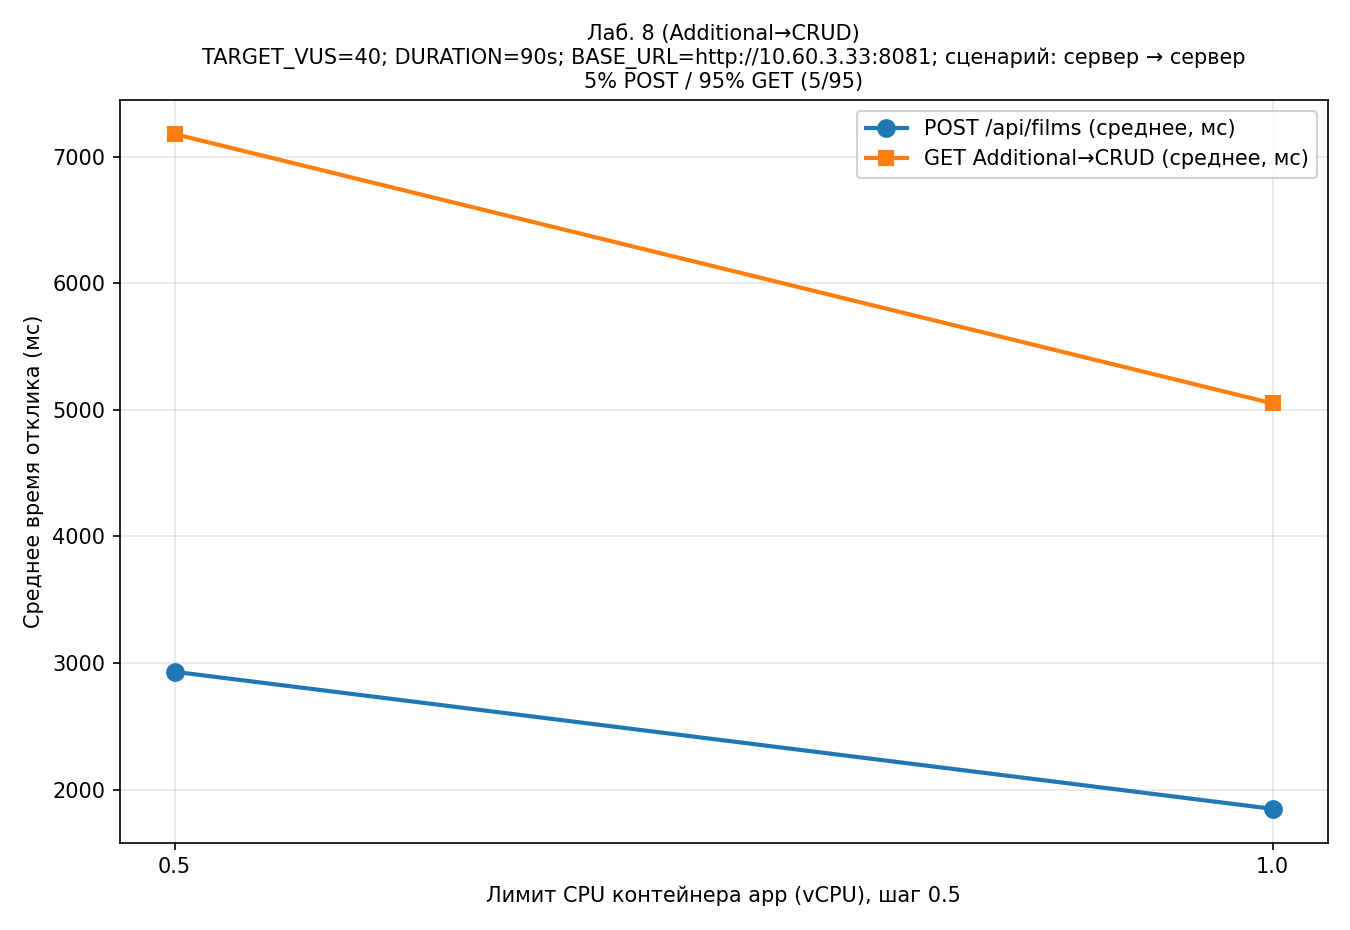
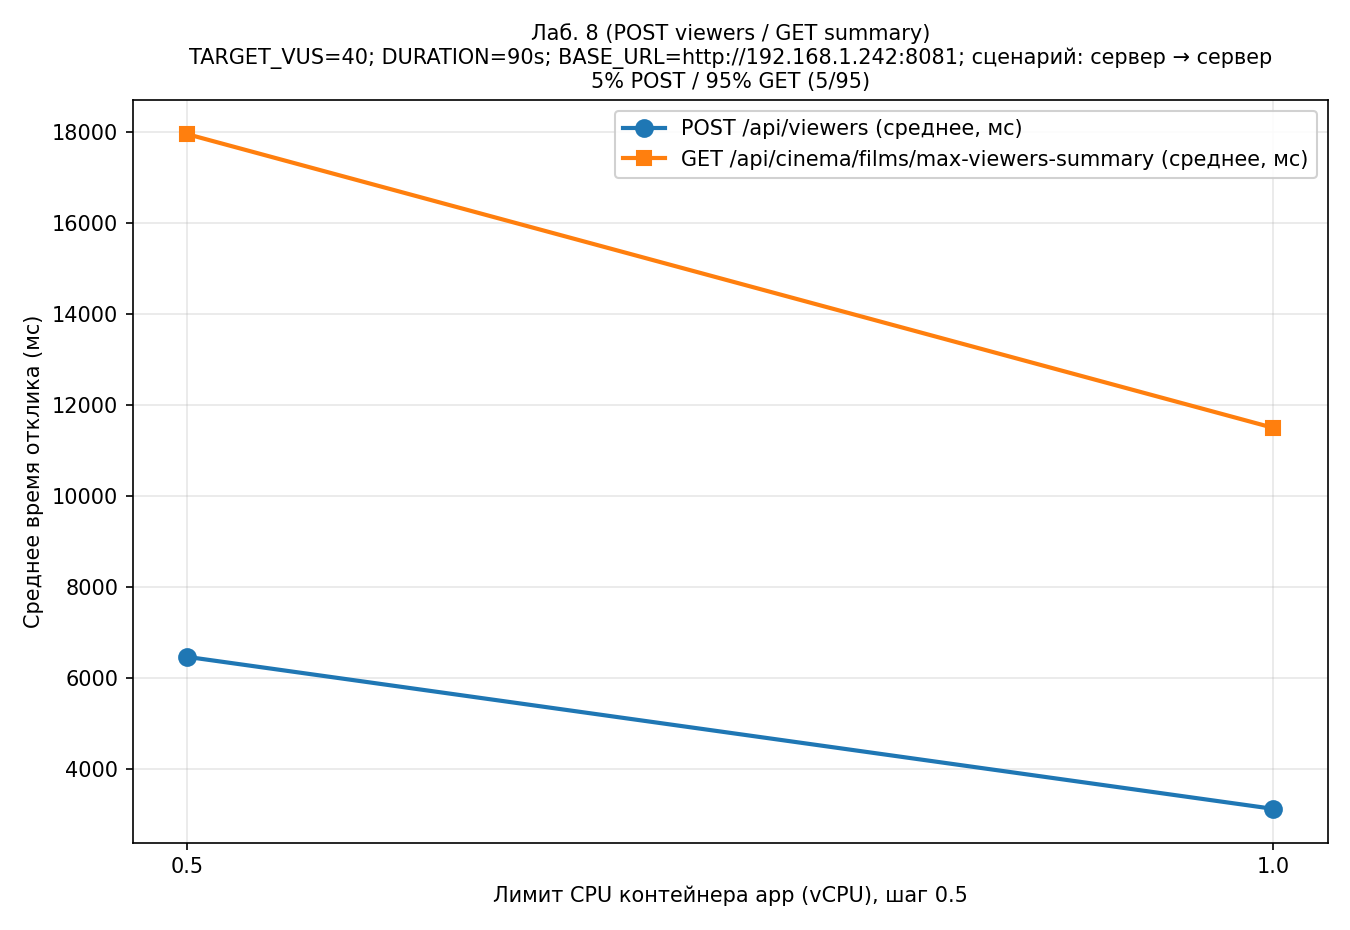
Update lab8 plotting scripts and README to include new POST legend for API viewers
- Added `--post-legend` argument to `plot_lab6_from_results.py` for customizable POST legend.
- Updated `run-lab8-ratio-sweep.sh` to include the new POST legend for consistency.
- Modified README to reflect the changes in command usage for plotting.
- Updated PNG files generated from lab8 tests.

These changes enhance the clarity of the plotted results for lab8 performance metrics.

diff --git a/k6/plot_lab6_from_results.py b/k6/plot_lab6_from_results.py
@@ -280,6 +280,7 @@ def plot_mix(
     meta: dict,
     title_tag: str = "Лаб. 6: время отклика vs CPU",
     png_prefix: str = "lab6-vs-cpu",
+    post_legend: str = "POST /api/films (среднее, мс)",
     get_legend: str = "GET analytics (среднее, мс)",
 ) -> None:
     try:
@@ -296,7 +297,7 @@ def plot_mix(
         x_cpu,
         y_post,
         "o-",
-        label="POST /api/films (среднее, мс)",
+        label=post_legend,
         color="#1f77b4",
         linewidth=2,
         markersize=8,
@@ -372,6 +373,12 @@ def main() -> None:
         help="Префикс имён PNG (lab6-vs-cpu или lab8-vs-cpu)",
     )
     p.add_argument(
+        "--post-legend",
+        default="POST /api/films (среднее, мс)",
+        metavar="TEXT",
+        help="Подпись легенды для POST-ветки (лаб. 8: POST /api/viewers)",
+    )
+    p.add_argument(
         "--get-legend",
         default="GET analytics (среднее, мс)",
         metavar="TEXT",
@@ -428,6 +435,7 @@ def main() -> None:
             meta,
             title_tag=args.title_tag,
             png_prefix=args.png_prefix,
+            post_legend=args.post_legend,
             get_legend=args.get_legend,
         )
 

diff --git a/README.md b/README.md
@@ -1583,6 +1583,7 @@ python3 k6/plot_lab6_from_results.py results -o png_k8 \
   --summary-prefix lab8-summary --vus 400 \
   --title-tag "Лаб. 8 (Additional→CRUD)" \
   --png-prefix lab8-vs-cpu \
+  --post-legend "POST /api/viewers (среднее, мс)" \
   --get-legend "GET Additional→CRUD (среднее, мс)"
 ```
 
